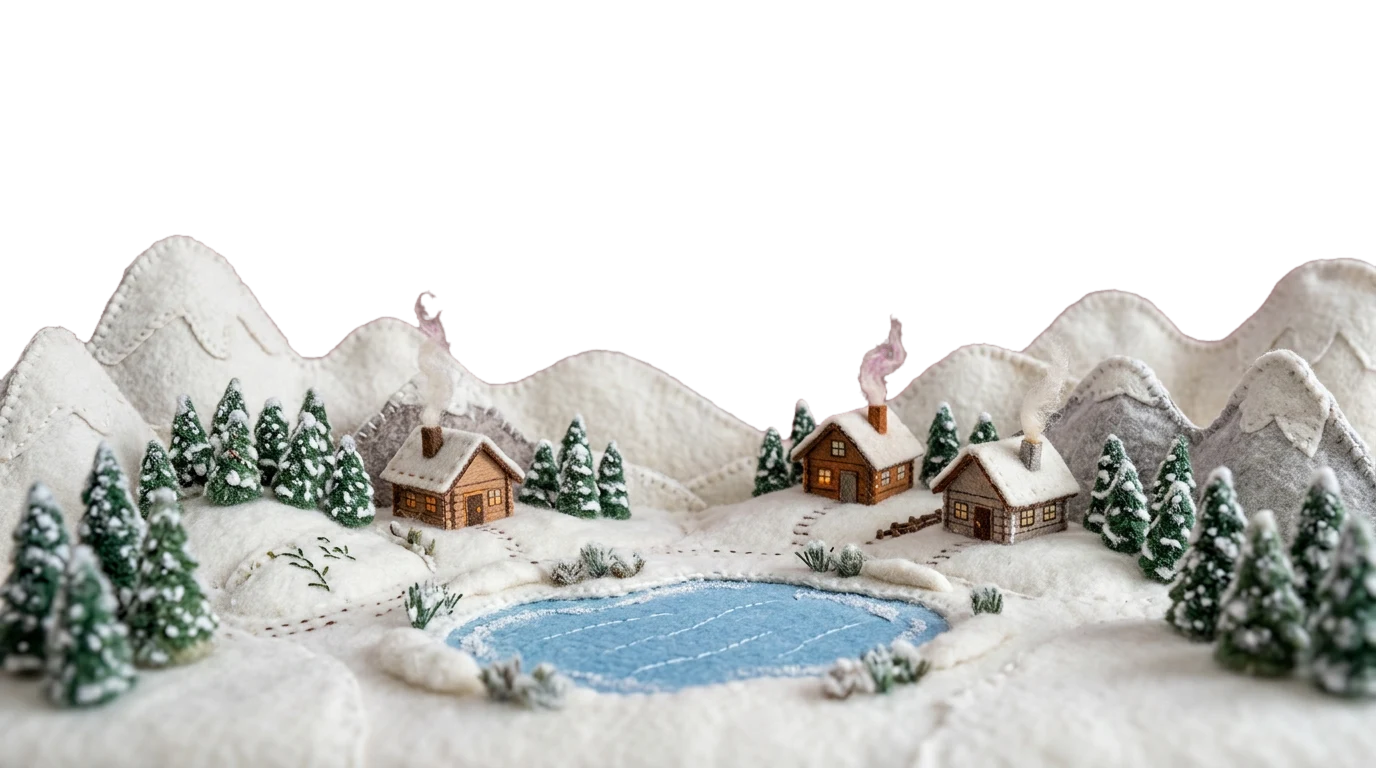
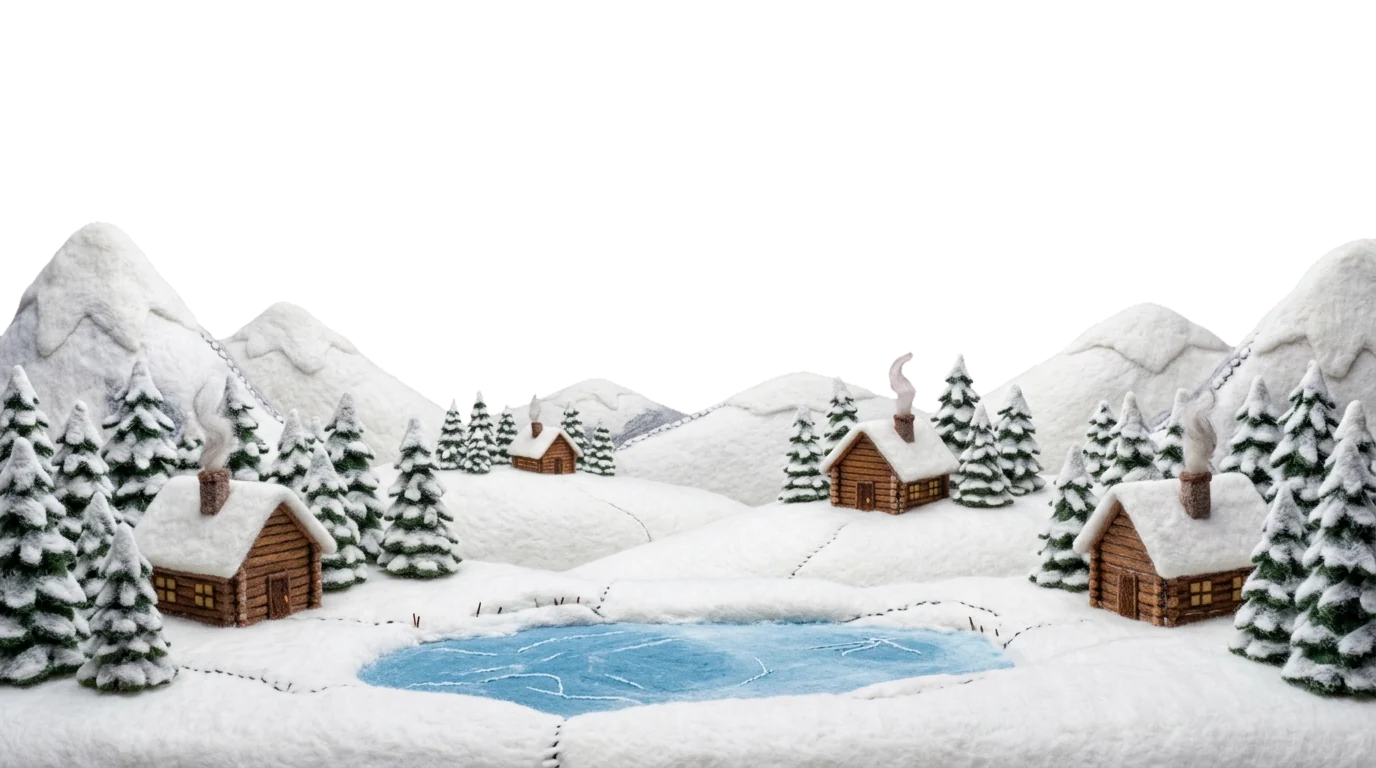
Train: sharp-focus regenerated backdrops for hills, beach, snow and desert
Claude-Session: https://claude.ai/code/session_01NGZ57BLqfmAdnsXYVQnQGN

diff --git a/games/train.html b/games/train.html
@@ -29,7 +29,7 @@ button:focus-visible{outline:4px solid #fff;outline-offset:3px}
 .scene{position:relative;flex:1;overflow:hidden}
 .dio{position:absolute;inset:0;pointer-events:none;background-repeat:no-repeat;background-size:cover;background-position:center bottom}
 #dio-bg{background-image:url(../felt/sky-plate.webp);filter:blur(2px) saturate(1.05);transform:scale(1.03)}
-#dio-hills{background-image:url(../felt/sky-hills.webp);inset:0 0 calc(var(--gh)*.94 - var(--crop,13vh)) 0;background-position:center 70%}
+#dio-hills{background-image:url(../felt/train-green-hills.webp);inset:0 0 calc(var(--gh)*.94 - var(--crop,6vh)) 0;background-position:center 70%}
 .lp-clouds{position:absolute!important;z-index:1!important}
 .layer{position:absolute;left:0;right:0;background-repeat:repeat-x}
 .clouds,.hills{display:none}
@@ -42,8 +42,8 @@ button:focus-visible{outline:4px solid #fff;outline-offset:3px}
 .scene[data-sc=sea] #dio-hills{background-image:url(../felt/train-sea-hills.webp)}
 .scene[data-sc=sea] .trees{background-image:url(../felt/train-sea-trees.webp)}
 .scene[data-sc=sea] .ground{background-image:url(../felt/train-sea-ground.webp)}
-.scene[data-sc=snow]{--crop:25vh}
-.scene[data-sc=desert]{--crop:25vh}
+.scene[data-sc=snow]{--crop:6vh}
+.scene[data-sc=desert]{--crop:6vh}
 .scene[data-sc=snow] #dio-bg{background-image:url(../felt/train-snow-sky.webp)}
 .scene[data-sc=snow] #dio-hills{background-image:url(../felt/train-snow-hills.webp)}
 .scene[data-sc=snow] .trees{background-image:url(../felt/train-snow-trees.webp)}
